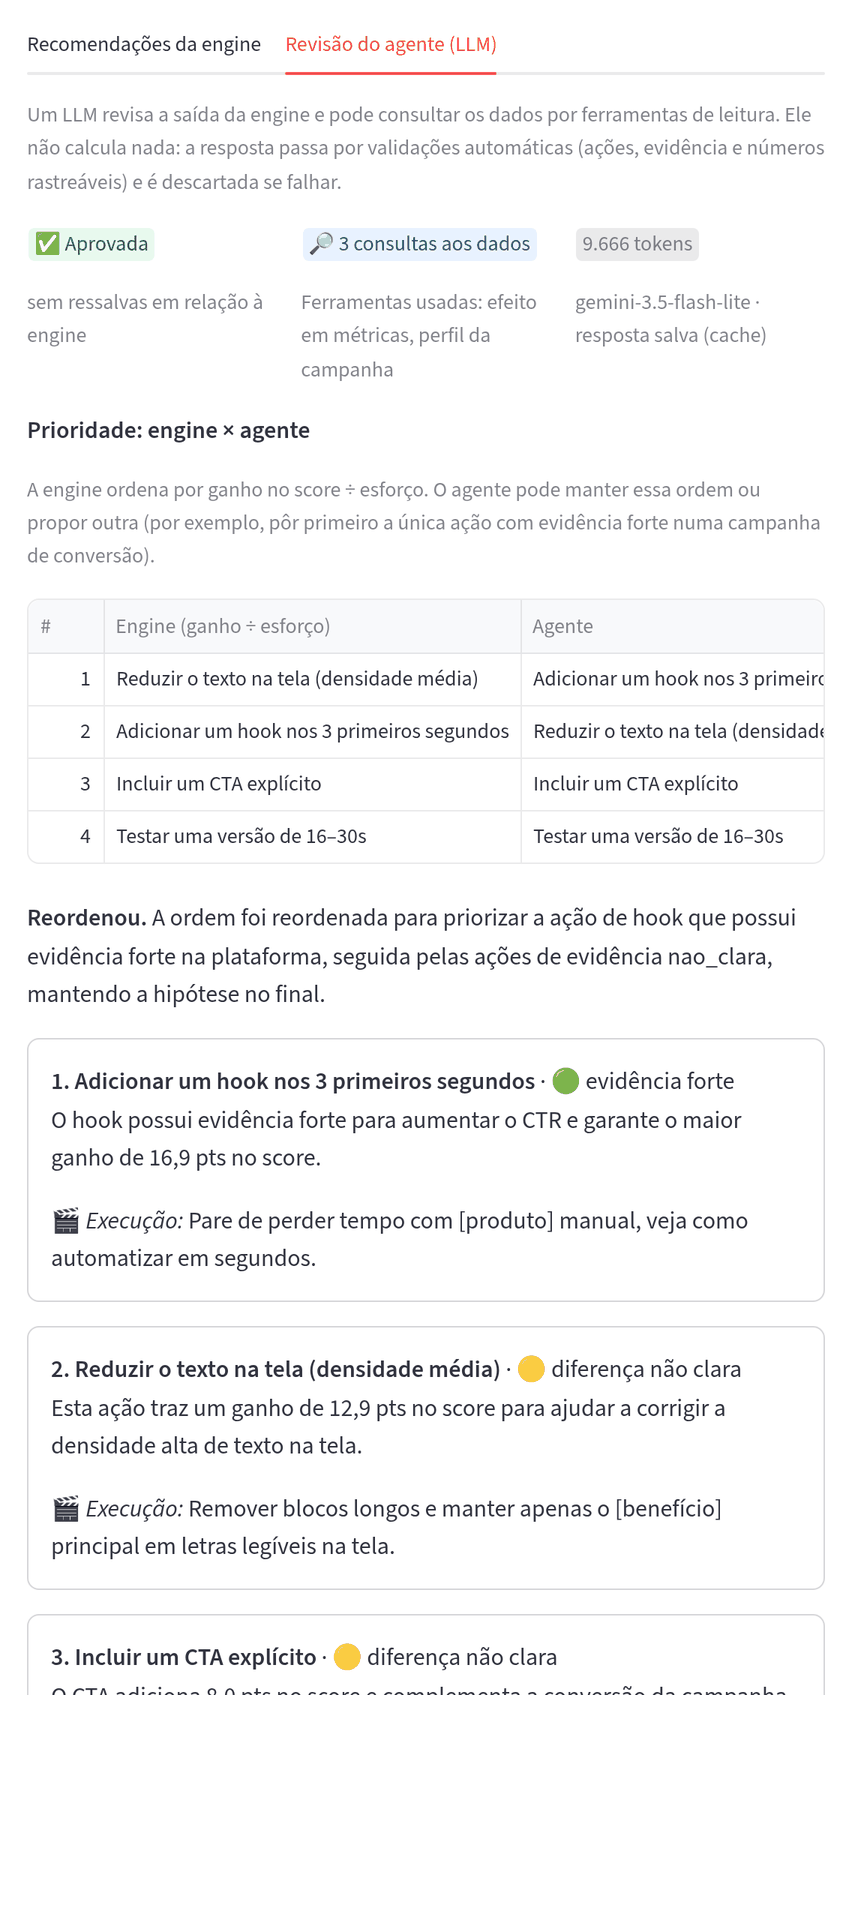
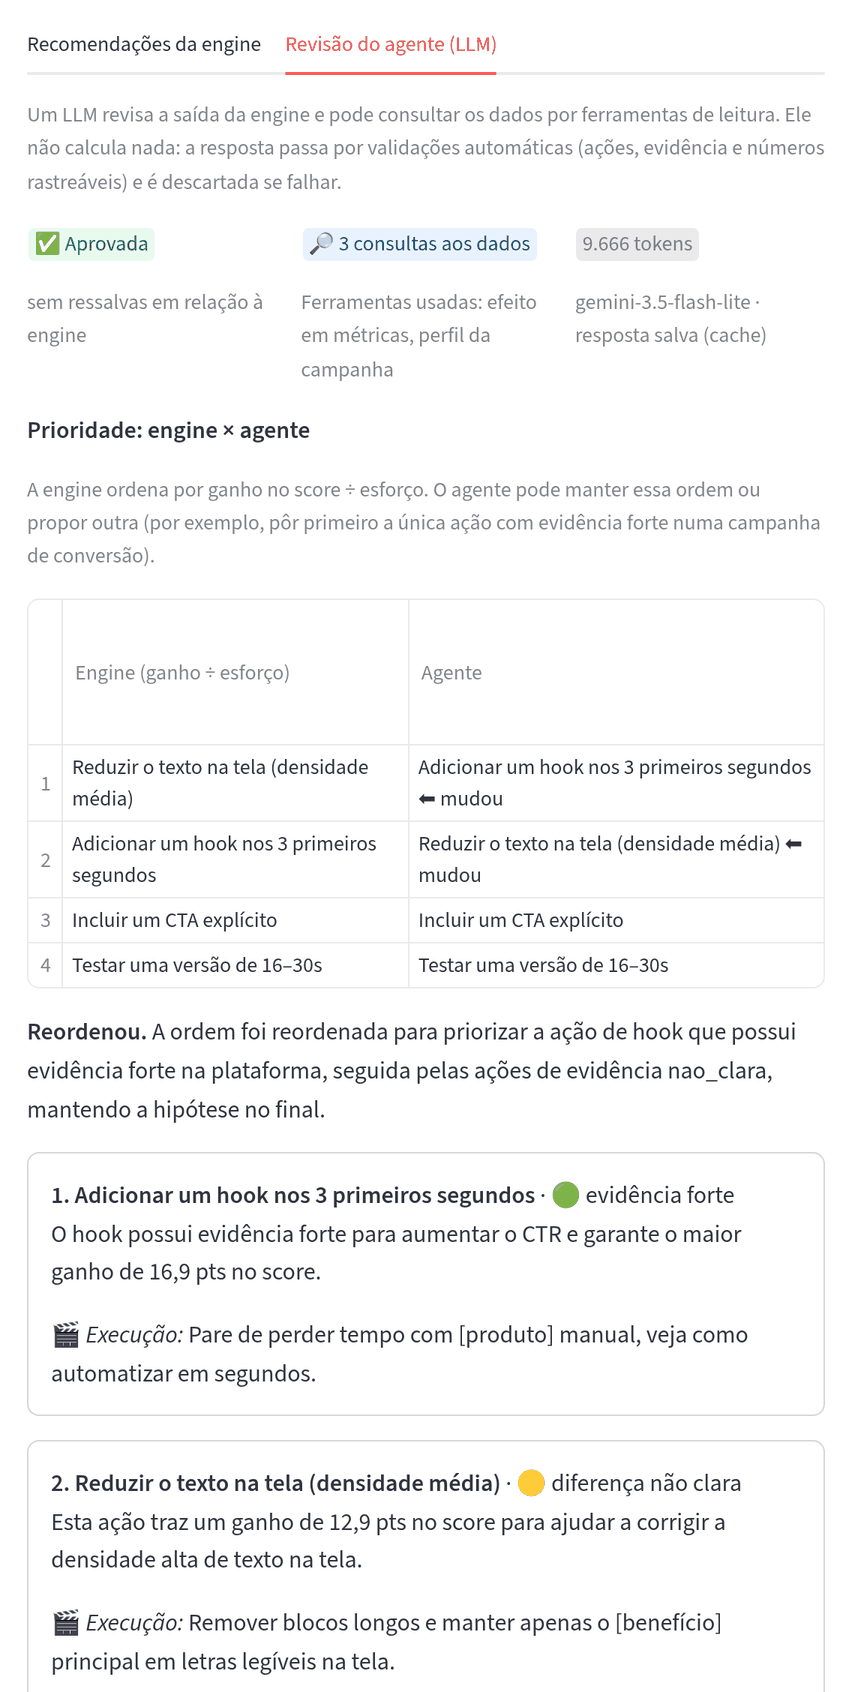
Ajusta precisão do README e exibe a tabela de ordem inteira no simulador

diff --git a/app.py b/app.py
@@ -176,7 +176,7 @@ def show_review(res: dict) -> None:
         "Agente": [titles[k] + ("" if k == engine_order[i] else "  ⬅ mudou")
                    for i, k in enumerate(rv["ordem_sugerida"])],
     })
-    st.dataframe(order, hide_index=True, width="stretch")
+    st.table(order.set_index("#"))
     verdict = "Manteve a ordem da engine." if rv["mantem_ordem_da_engine"] else "Reordenou."
     st.markdown(f"**{verdict}** {rv['justificativa_ordem']}")
     by_key = {a["key"]: a for a in rv["acoes"]}

diff --git a/README.md b/README.md
@@ -4,7 +4,7 @@ Análise de 500 campanhas de vídeo (Meta, TikTok, LinkedIn), um modelo que prev
 
 ## Resumo de descobertas
 
-- **Hook nos 3 primeiros segundos é a alavanca mais forte:** vale +16 a +19 pontos de score e +50–70% de CTR, nas três plataformas.
+- **Hook nos 3 primeiros segundos é a alavanca mais forte:** vale +16 a +19 pontos de score e +50–70% de CTR no geral, com efeito positivo em cada plataforma.
 - **O que funciona depende da plataforma.** Rosto gera clique no TikTok (+75% CTR) e interação no Meta (+54% engajamento); vertical é o melhor formato no TikTok e o pior no LinkedIn.
 - **O score parece um checklist de boas práticas + performance + ruído.** Uma regressão linear explica 71% dele só com atributos do criativo e contexto, e venceu o gradient boosting. Por ser linear, cada coeficiente é "quantos pontos o atributo vale".
 - **Cuidado com conclusões brutas:** campanhas com hook têm ROAS 21% menor, mas a diferença some (−2%) ao controlar pela plataforma. Por isso a engine compara campanhas dentro da mesma plataforma.
@@ -76,7 +76,7 @@ Cada decisão está em [`docs/decisions.md`](docs/decisions.md) no formato "o qu
 **Extra · Agente revisor e simulador** · `src/klike/agent.py`, `app.py`, [`notebooks/04_agent_comparison.ipynb`](notebooks/04_agent_comparison.ipynb)
 - A engine continua sendo o núcleo. O LLM entra como **revisor com papel limitado**: lê a saída da engine, consulta os dados com 3 ferramentas só de leitura e pode reordenar, comentar, sugerir a execução criativa ("qual hook gravar") e dar alertas. Não pode criar nem remover ações, mudar a evidência ou calcular números (D19).
 - **Os guardrails são código, não prompt:** schema, ações idênticas às da engine, evidência copiada, hipóteses no fim e todo número rastreável até a engine ou uma ferramenta. Se falhar, ele tem uma chance de corrigir; senão, a revisão é descartada (D20).
-- **Medi em vez de supor.** No confronto com 18 campanhas, a 1ª versão teve 5 rejeições, por falsos positivos meus e problemas de formato; com uma iteração, foi para 1 (D21). O agente concordou com a engine em 7 de 7 casos em que a 1ª ação tinha evidência forte e trocou em 6 de 10 em que não tinha. Também mostrou que, em awareness, a engine olha a métrica errada: o hook não muda o engajamento, mas aumenta a retenção em +34%.
+- **Medi em vez de supor.** No confronto com 18 campanhas, a 1ª versão teve 5 rejeições, por falsos positivos meus e problemas de formato; com uma iteração, foi para 1 (D21). O agente concordou com a engine em 7 de 7 casos em que a 1ª ação tinha evidência forte e trocou em 6 de 10 em que não tinha. Também mostrou um ponto fraco da engine: em awareness, ela mede o hook pelo engajamento, onde o efeito no TikTok não é claro; o agente consultou a retenção, que o hook aumenta em +34% nas três plataformas.
 - O simulador recalcula score e recomendações a cada mudança, porque o modelo linear custa microssegundos; o agente aparece do cache ou ao vivo, com limite por sessão (D22).
 
 | Simulador: score, contribuição de cada atributo e recomendações da engine | Revisão do agente para a mesma campanha: põe primeiro a única ação com evidência forte |
@@ -137,6 +137,7 @@ flowchart LR
 4. **Retorno decrescente no plano combinado**, com dados suficientes para estimar interações entre ações.
 5. **Esforço medido, não chutado:** usar o tempo real de produção de cada mudança, vindo do time de criação (D17).
 6. **Prever o resultado de negócio, não só o score.** Com dados de mais anunciantes, modelar CTR e conversão diretamente e checar quanto o `klike_score` antecipa esses resultados.
+7. **Levar para a engine o que o agente achou**, como regra determinística: medir awareness pela retenção e pesar a força da evidência na prioridade. Deixei de fora de propósito, para não invalidar o confronto já medido (D21).
 
 ## Estrutura
 
@@ -149,7 +150,7 @@ src/klike/             data.py (limpeza) · analysis.py (lift + IC) · features.
 cli.py                 interface de linha de comando da engine
 app.py                 simulador de criativos (Streamlit)
 scripts/               run_agent_comparison.py (gera as revisões do confronto; precisa de chave)
-reports/figures/       figuras da EDA (eda/) e da modelagem (modelagem/)
+reports/figures/       figuras da EDA (eda/), da modelagem (modelagem/) e prints do simulador (app/)
 reports/agent/cache/   revisões salvas do agente (leitura sem chave de API)
 tests/                 testes da engine
 models/                modelo treinado (gerado na primeira execução, fora do git)
